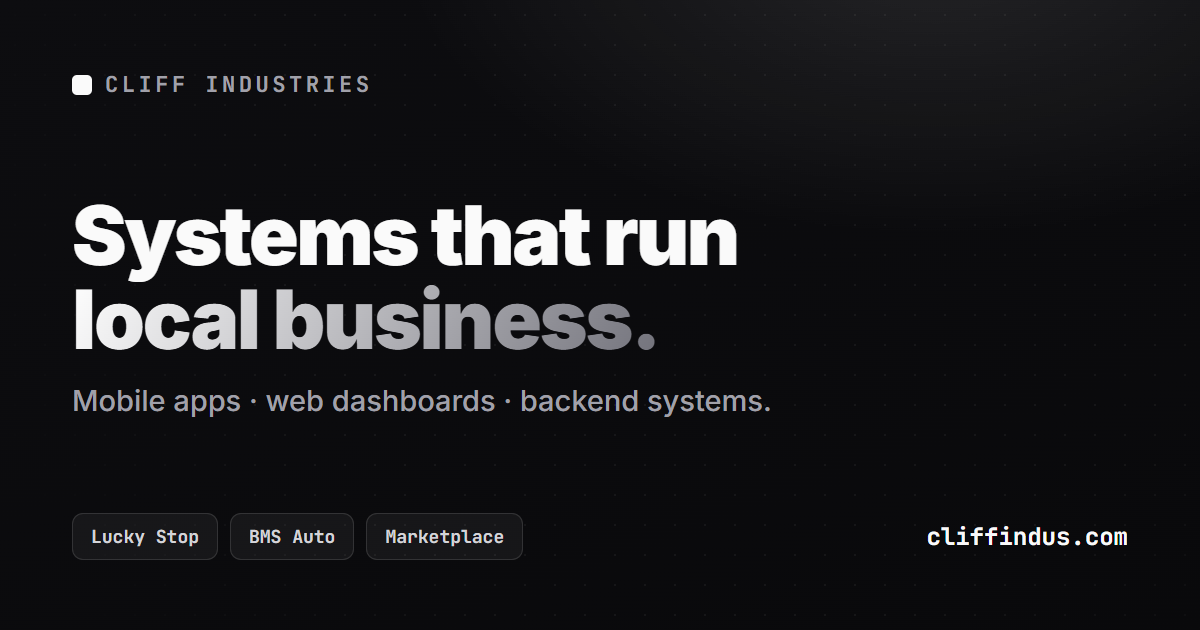
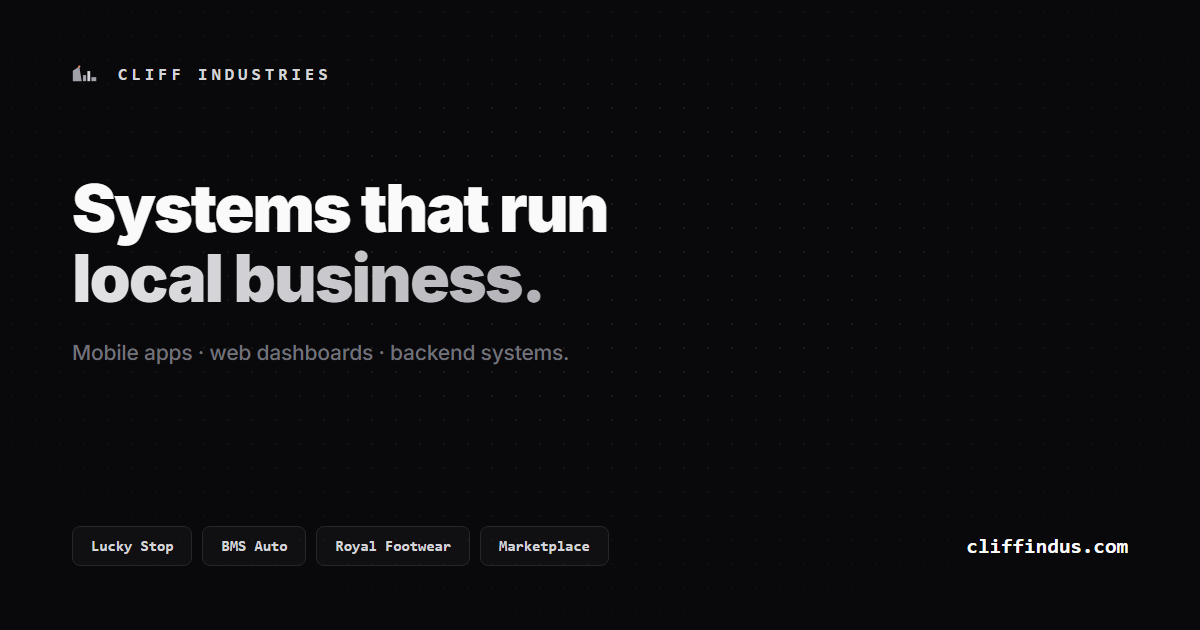
fix: regenerate stale social preview images with the real branding
Both og.png files still showed placeholder/outdated logos: a plain
white square on cliffindus.com (the old favicon placeholder, from
before the new cliff mark existed) and the retired fuel emoji on
luckystop.cliffindus.com. Rebuilt both to match the live site design
exactly, with the real logos, and along the way fixed two content
gaps the old images had: Royal Footwear was missing entirely from
cliffindus.com's product list, and the Lucky Stop image only showed
the Google Play badge despite iOS being live everywhere else on the
site.

Also gave /rbac/ an og:image for the first time, it had none, so
sharing that link showed no preview image at all.

diff --git a/luckystop.cliffindus.com/rbac/index.html b/luckystop.cliffindus.com/rbac/index.html
@@ -14,7 +14,11 @@
   <meta property="og:title" content="Lucky Stop · RBAC &amp; Security Architecture"/>
   <meta property="og:description" content="Five roles, one hierarchy, enforced at the API on every request. A real production platform, examined role by role, security layer by security layer."/>
   <meta property="og:url" content="https://luckystop.cliffindus.com/rbac/"/>
+  <meta property="og:image" content="https://luckystop.cliffindus.com/og.png"/>
+  <meta property="og:image:width" content="1200"/>
+  <meta property="og:image:height" content="630"/>
   <meta name="twitter:card" content="summary_large_image"/>
+  <meta name="twitter:image" content="https://luckystop.cliffindus.com/og.png"/>
   <link rel="preconnect" href="https://fonts.googleapis.com"/>
   <link rel="preconnect" href="https://fonts.gstatic.com" crossorigin/>
   <link href="https://fonts.googleapis.com/css2?family=Inter:wght@300;400;500;600;700;800;900&family=JetBrains+Mono:wght@400;500;600&display=swap" rel="stylesheet"/>
